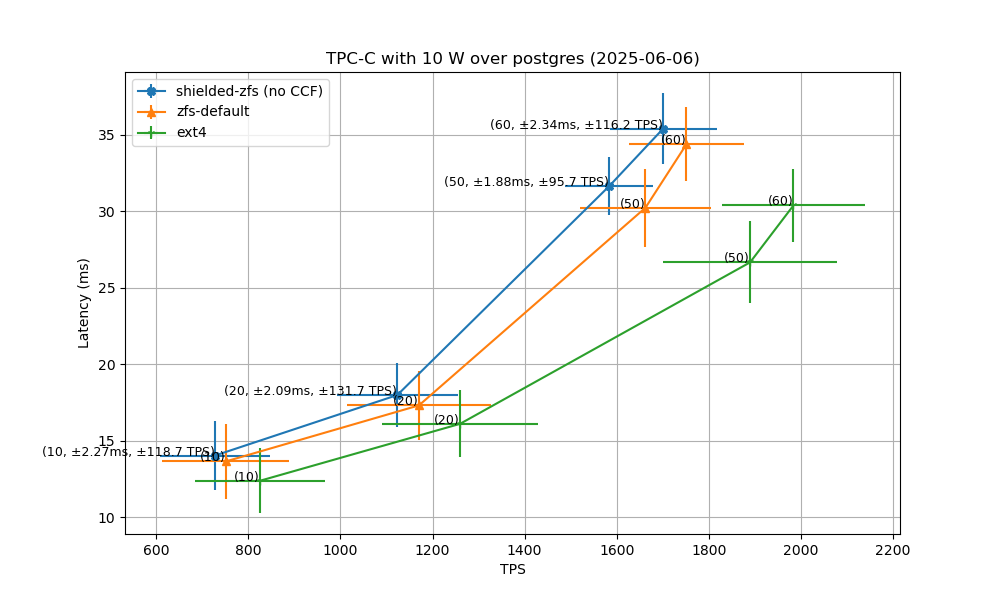
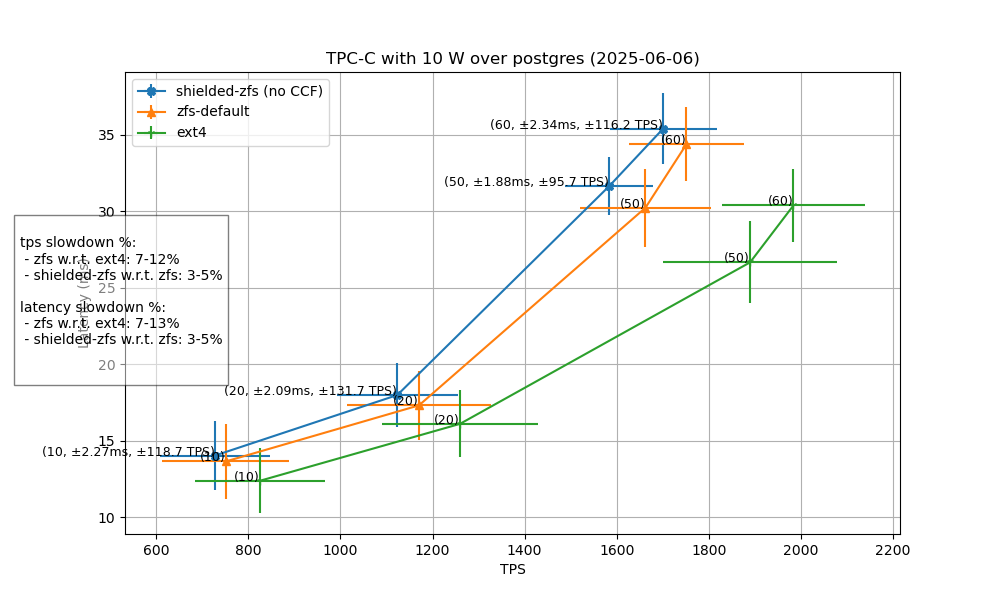
updates on the script

diff --git a/scripts/lat-throughput.py b/scripts/lat-throughput.py
@@ -126,6 +126,24 @@ for i in range(len(throughput_default_zfs)):
 for i in range(len(throughput_ext4)):
     plt.text(throughput_ext4[i], latency_ext4[i], f'({clients[i]})', fontsize=9, ha='right')
  
+
+
+stats_text = f"""
+tps slowdown %:
+ - zfs w.r.t. ext4: 7-12% 
+ - shielded-zfs w.r.t. zfs: 3-5%
+
+latency slowdown %:
+ - zfs w.r.t. ext4: 7-13% 
+ - shielded-zfs w.r.t. zfs: 3-5%
+
+"""
+
+# Add statistics text box
+plt.gcf().text(0.02, 0.5, stats_text, fontsize=10, va='center', bbox=dict(facecolor='white', alpha=0.5))
+
+
+
 title = f'TPC-C with 10 W over postgres ({date_string})'
 # Add title and labels
 plt.title(title)
